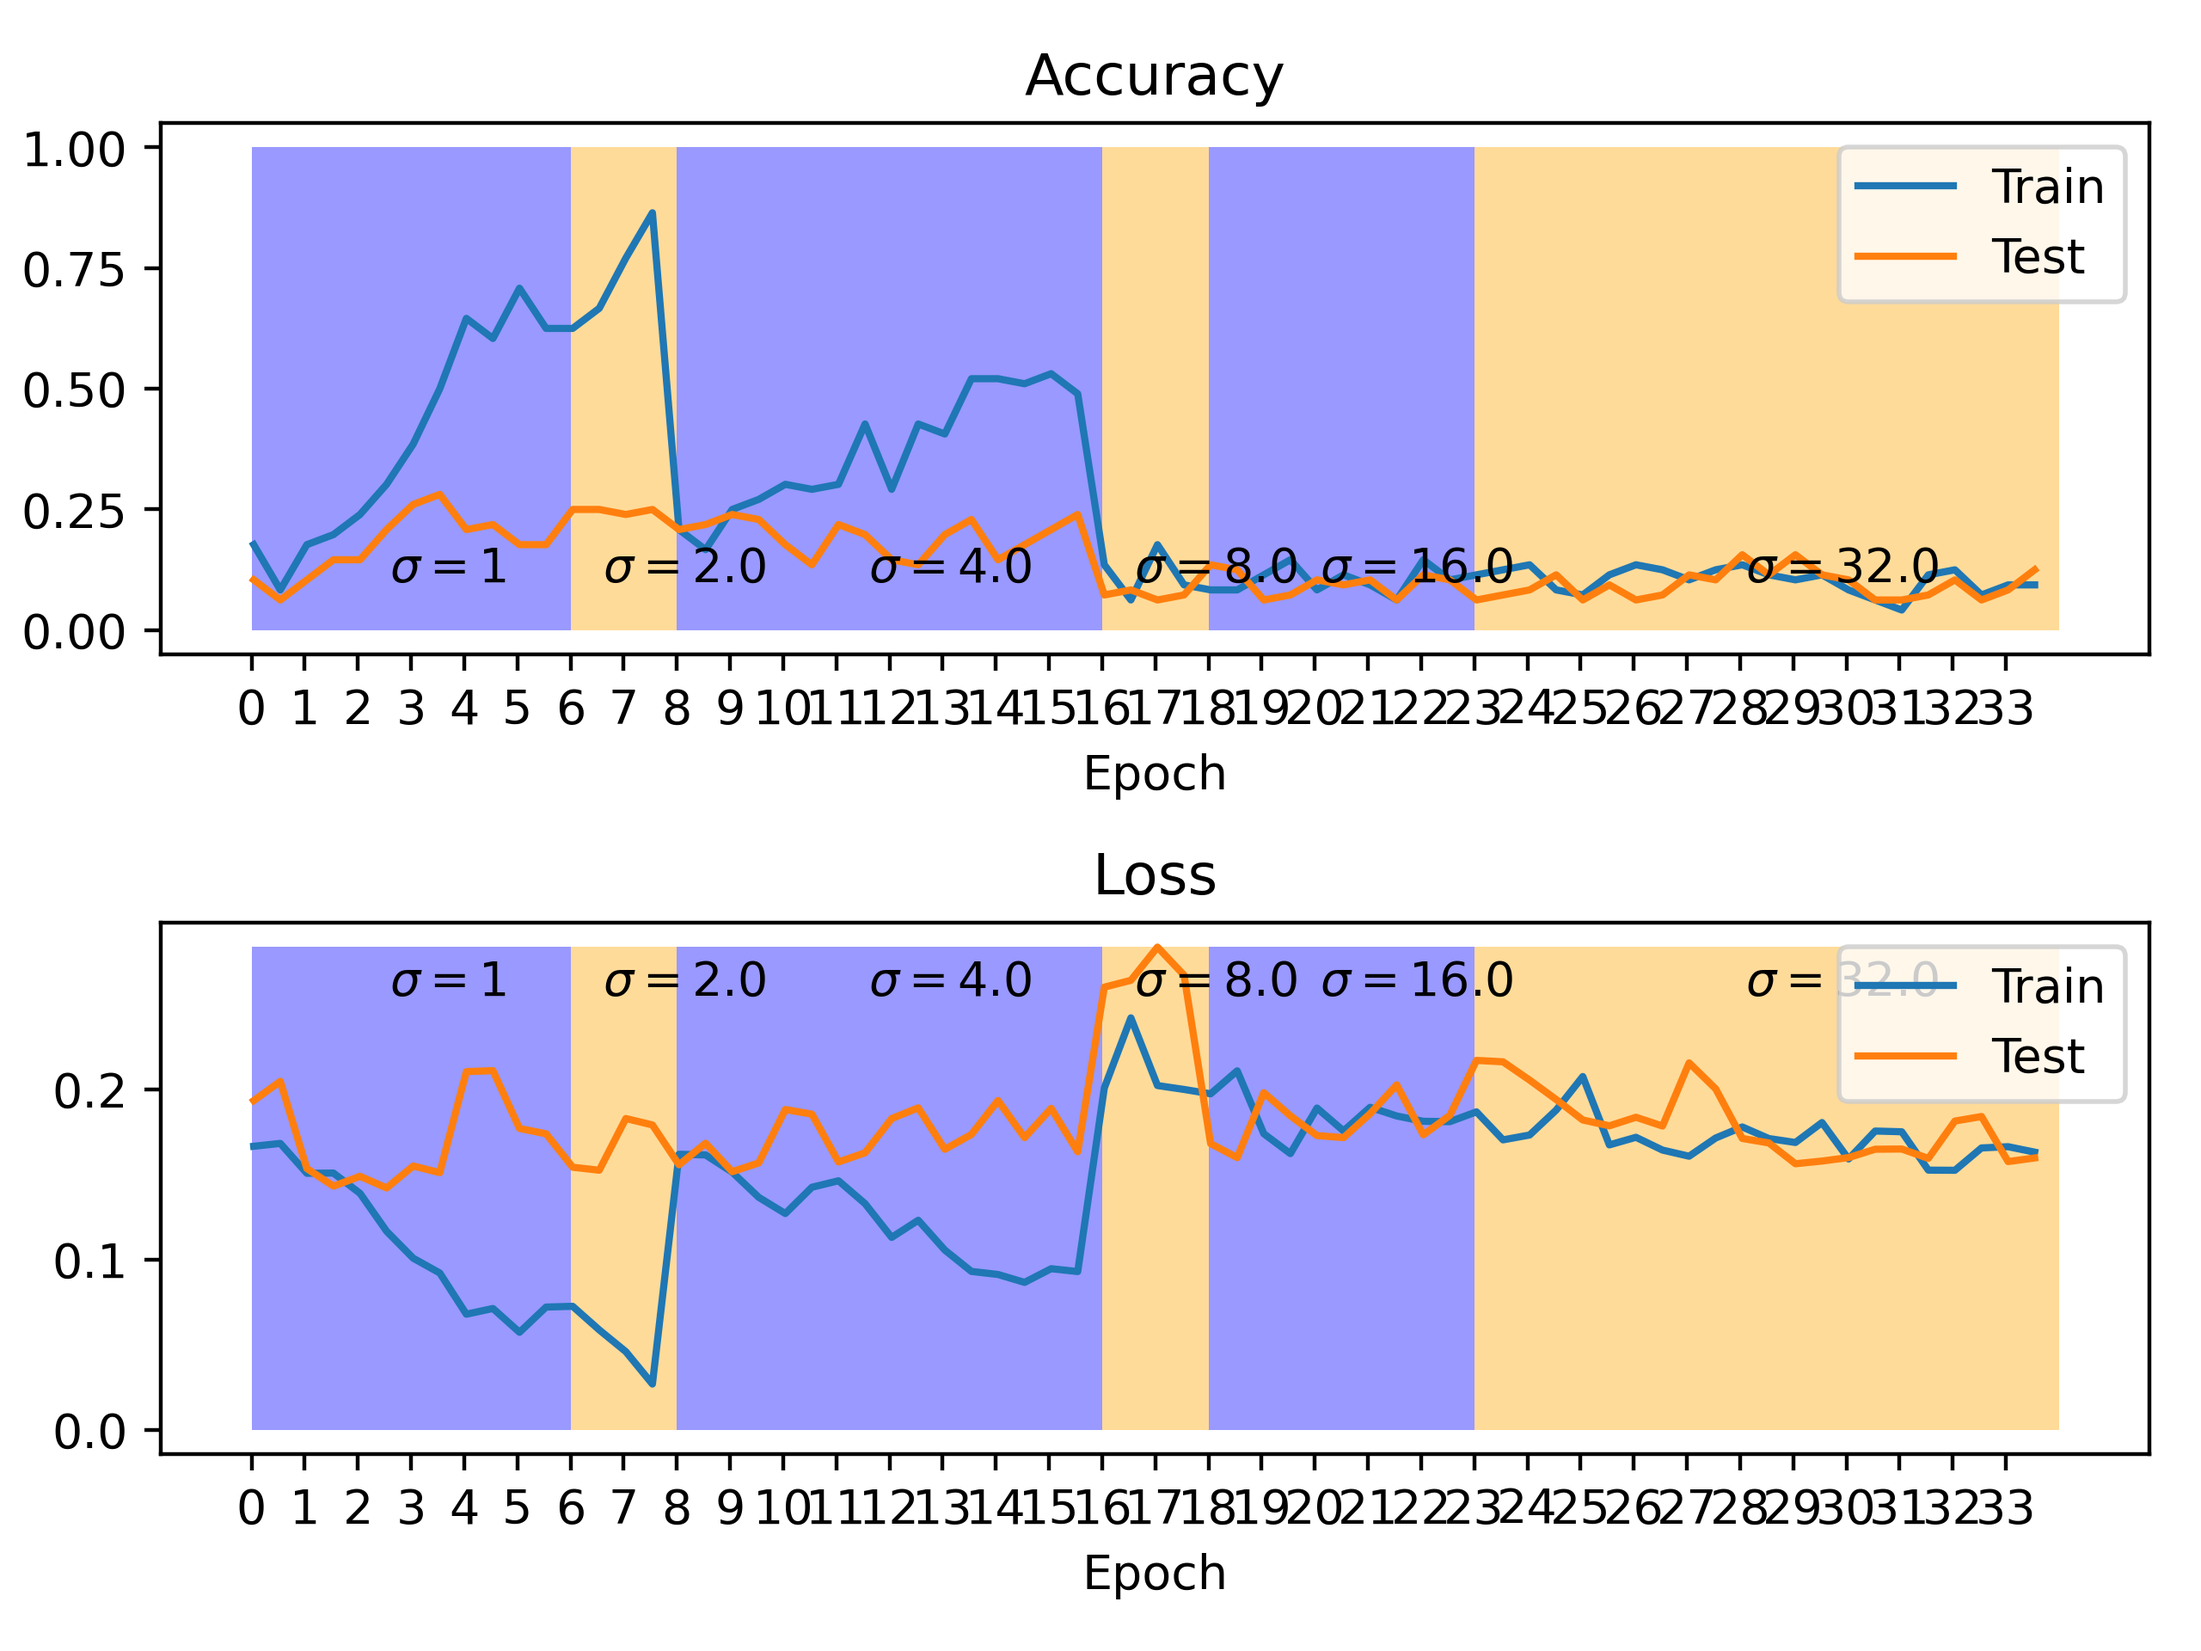
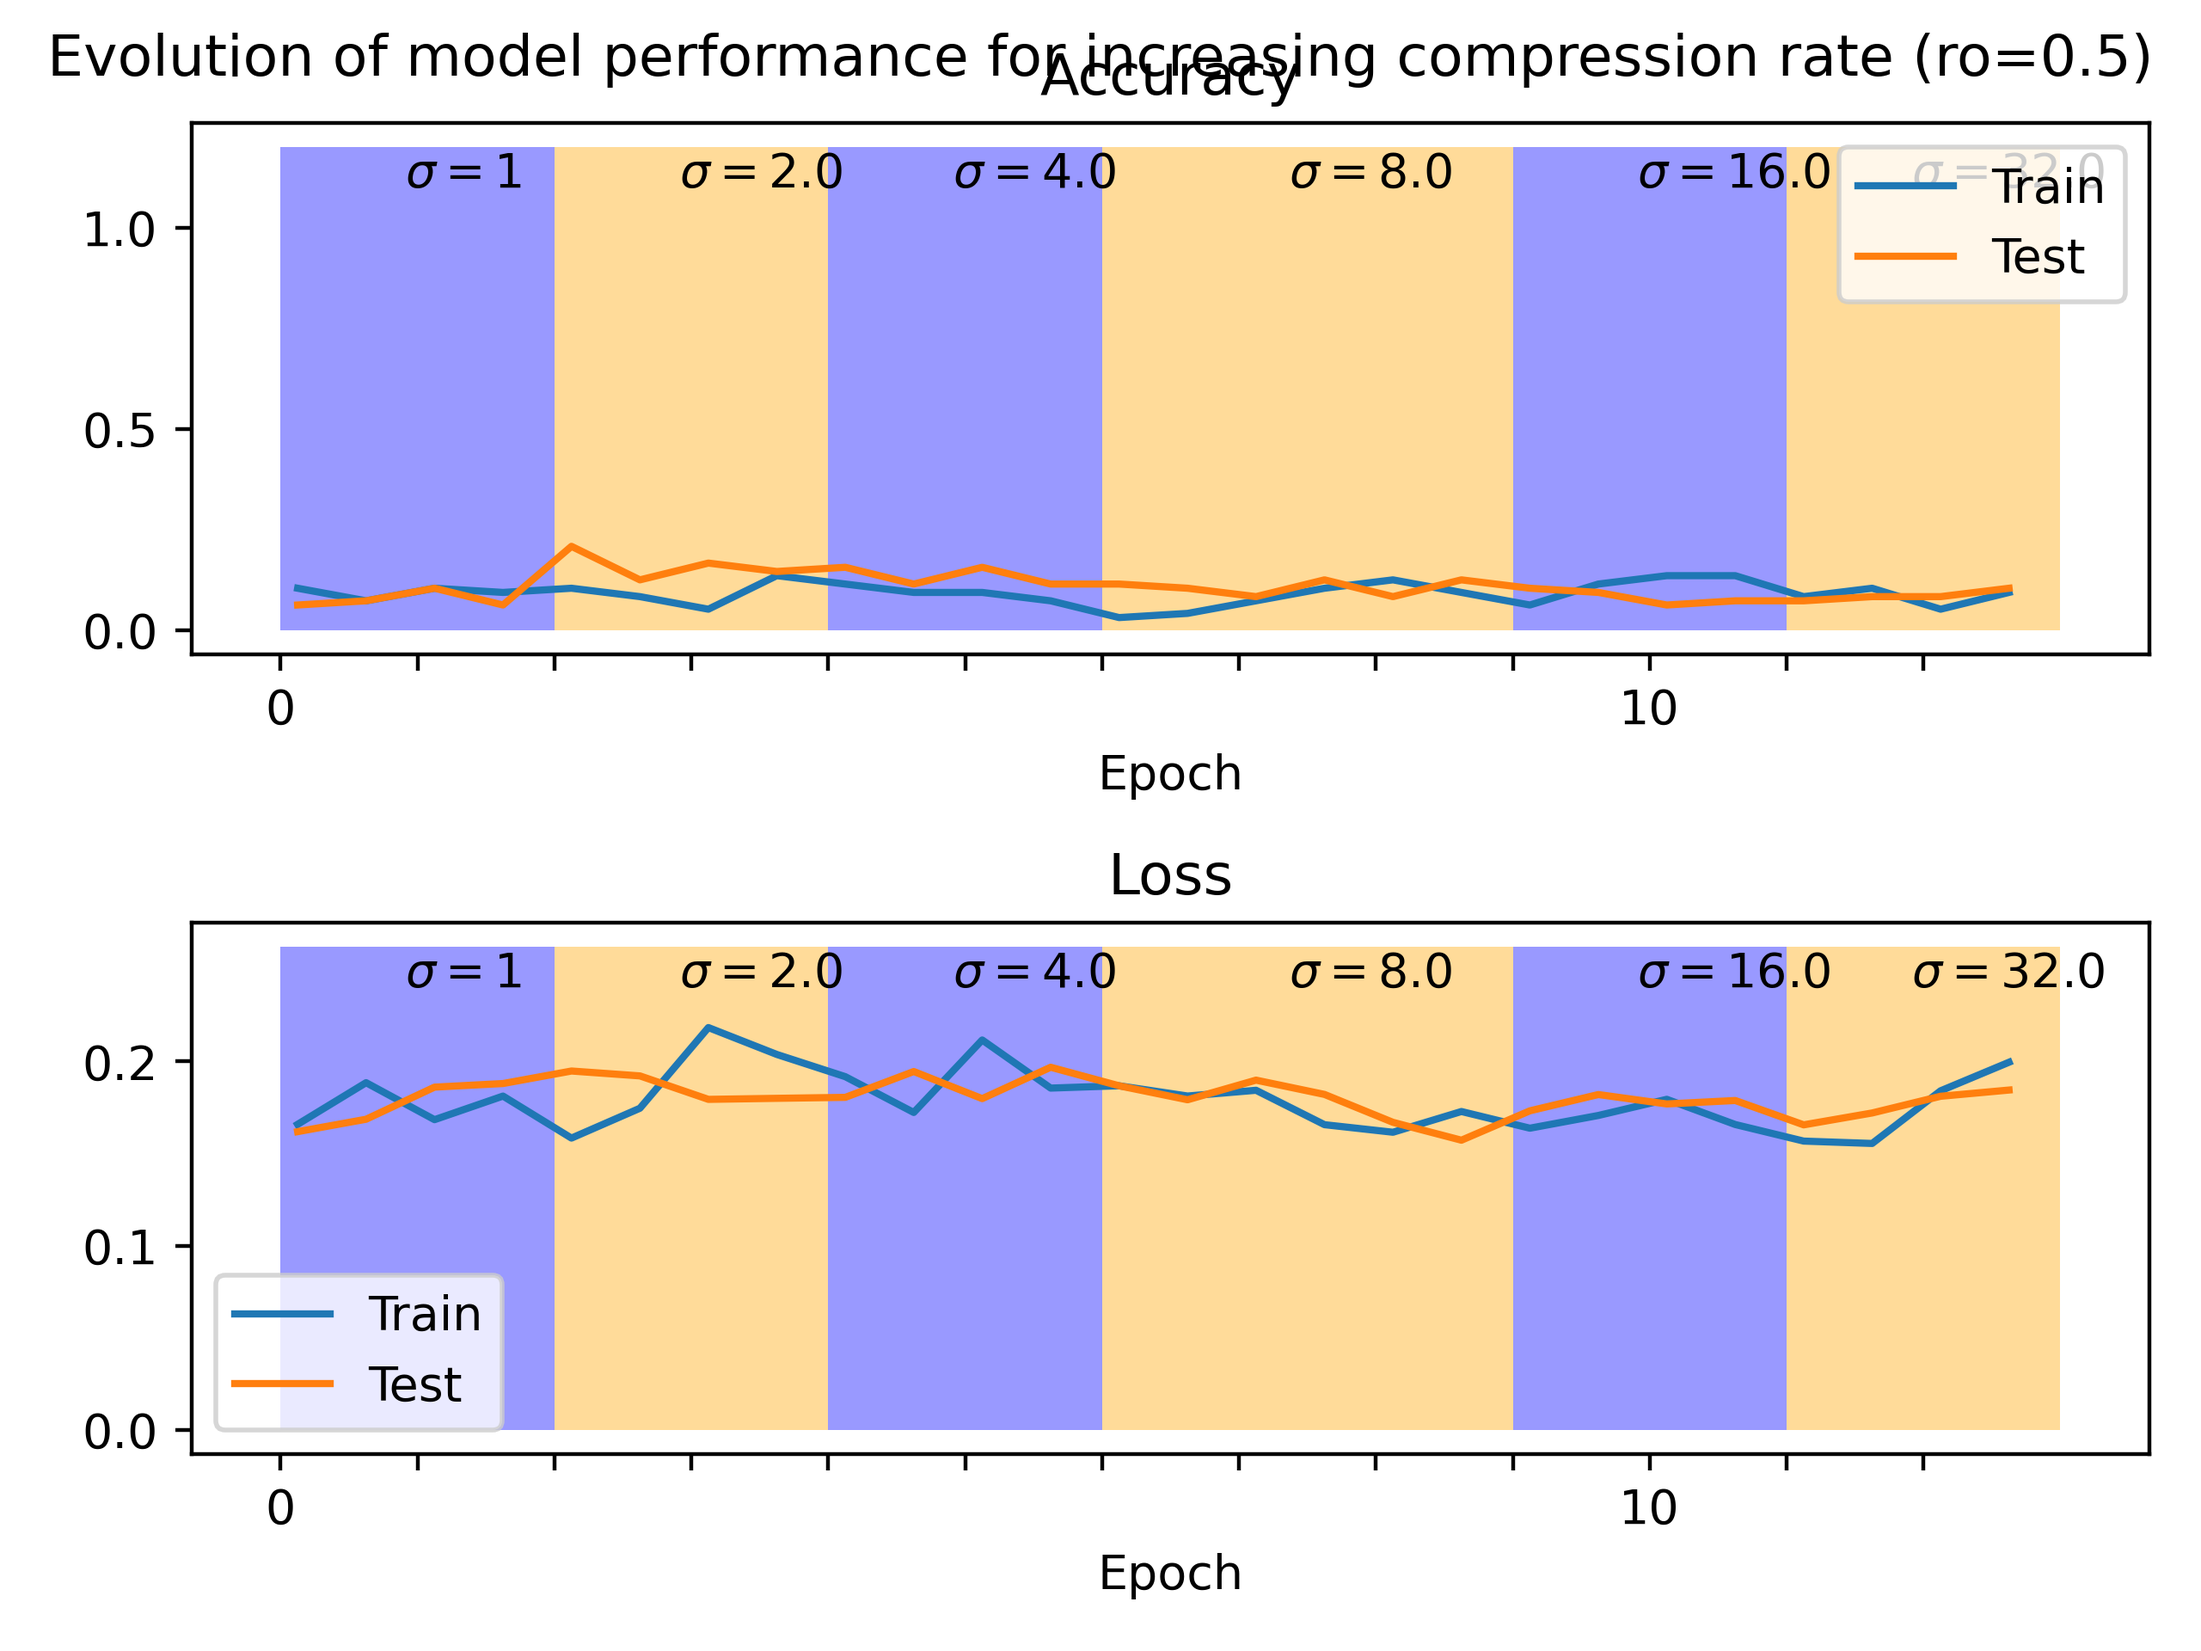
count in big ol batches

diff --git a/src/viz.py b/src/viz.py
@@ -56,7 +56,7 @@ def visualize_loss_acc(opt, allLosses, allAccs, epochLengths, compRates = None):
 		ax.set_xticklabels([str(x) if x % 10 == 0 else "" for x in np.arange(xPrev)])
 		ax.set_xlabel("Epoch")
 
-	fig.tight_layout()
+	fig.tight_layout(rect=[0, 0.03, 1, 0.95])
 	plt.suptitle("Evolution of model performance for increasing compression rate (ro="+str(opt.ro)+")")
 
 	saveFig(opt, "accLossThroughEpochs");
